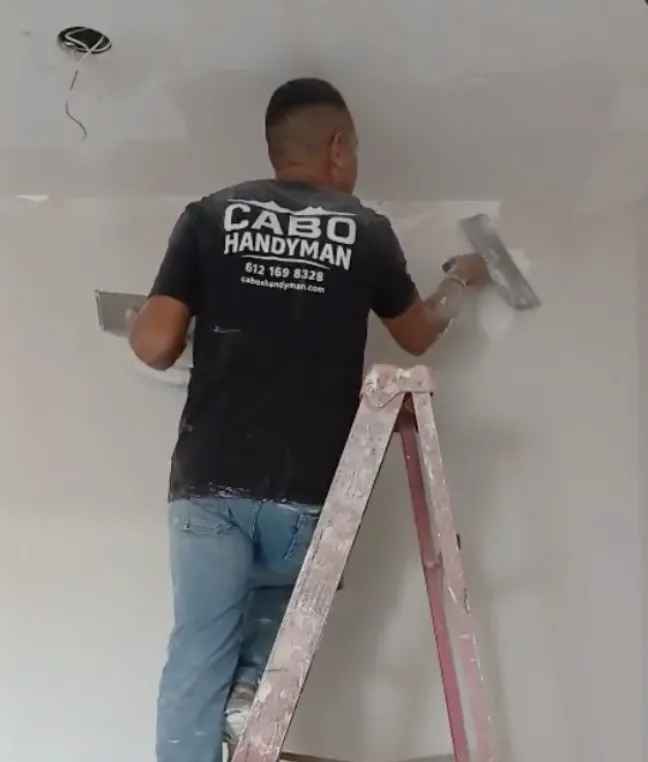
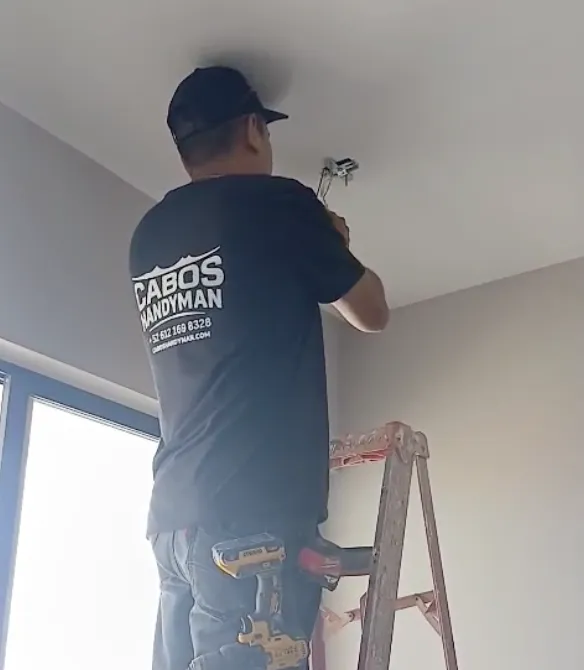
fix: replace drywall photo and fix image crop to show worker's head

diff --git a/src/pages/TopHandymanServicesLosCabos.tsx b/src/pages/TopHandymanServicesLosCabos.tsx
@@ -269,18 +269,18 @@ export default function TopHandymanServicesLosCabos() {
           <p className="text-center text-slate-500 mb-8">Photos from actual jobs completed across Los Cabos.</p>
           <div className="grid grid-cols-2 md:grid-cols-3 gap-4">
             {[
-              { src: "/service-sections/ch-plumbing.webp", alt: "Plumbing repair by Cabos Handyman in Los Cabos" },
-              { src: "/service-sections/ch-electrical.webp", alt: "Electrical work by Cabos Handyman in Cabo San Lucas" },
-              { src: "/service-sections/ch-painting.webp", alt: "Interior painting by Cabos Handyman Los Cabos" },
-              { src: "/service-sections/ch-masonry.webp", alt: "Masonry and stucco repair by Cabos Handyman" },
-              { src: "/service-sections/ch-drywall.webp", alt: "Drywall and ceiling work by Cabos Handyman" },
-              { src: "/service-sections/ch-ceiling-repair.webp", alt: "Ceiling repair by Cabos Handyman Cabo San Lucas" }
-            ].map(({ src, alt }) => (
+              { src: "/service-sections/ch-plumbing.webp", alt: "Plumbing repair by Cabos Handyman in Los Cabos", position: "object-center" },
+              { src: "/service-sections/ch-electrical.webp", alt: "Electrical work by Cabos Handyman in Cabo San Lucas", position: "object-center" },
+              { src: "/service-sections/ch-painting.webp", alt: "Interior painting by Cabos Handyman Los Cabos", position: "object-center" },
+              { src: "/service-sections/ch-masonry.webp", alt: "Masonry and stucco repair by Cabos Handyman", position: "object-center" },
+              { src: "/service-sections/ch-drywall.webp", alt: "Drywall and ceiling work by Cabos Handyman", position: "object-top" },
+              { src: "/service-sections/ch-ceiling-repair.webp", alt: "Ceiling repair by Cabos Handyman Cabo San Lucas", position: "object-center" }
+            ].map(({ src, alt, position }) => (
               <div key={src} className="aspect-video rounded-xl overflow-hidden bg-slate-200">
                 <img
                   src={src}
                   alt={alt}
-                  className="w-full h-full object-cover hover:scale-105 transition-transform duration-300"
+                  className={`w-full h-full object-cover ${position} hover:scale-105 transition-transform duration-300`}
                   loading="lazy"
                 />
               </div>
